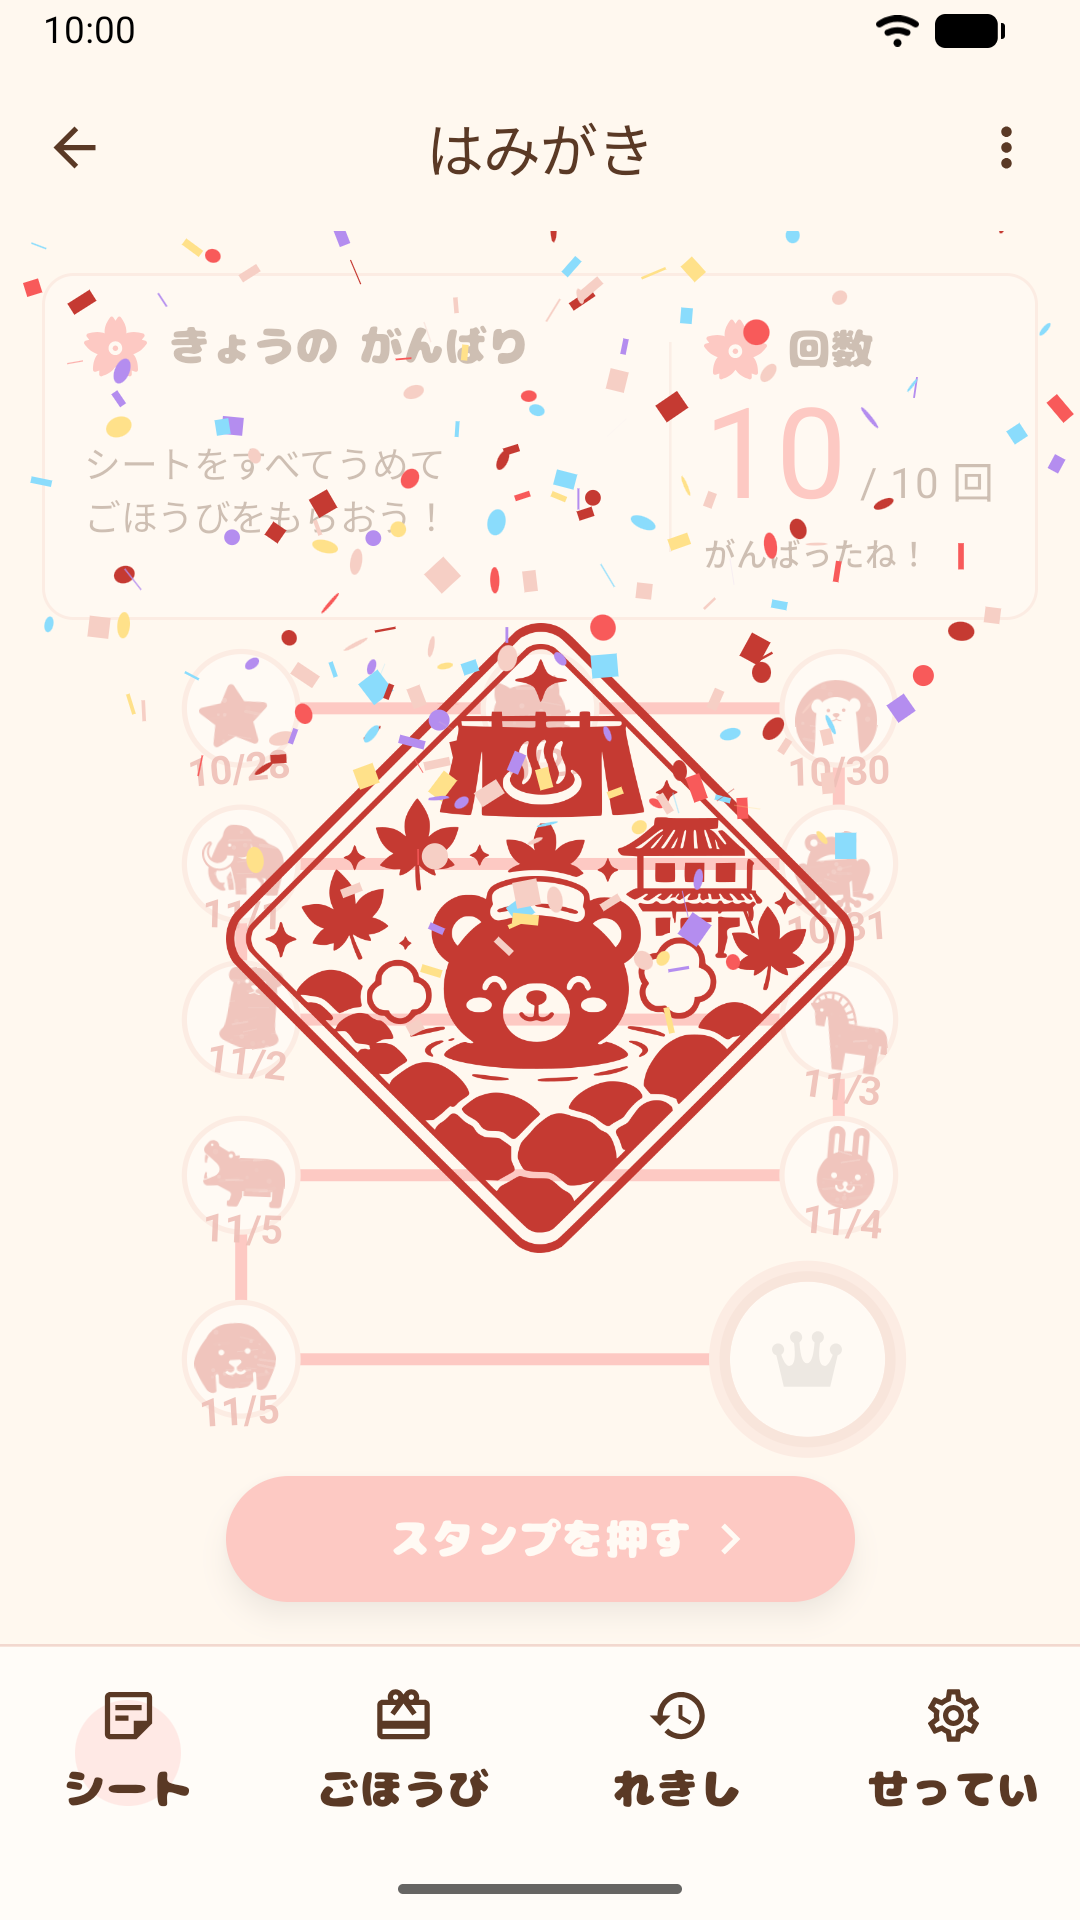
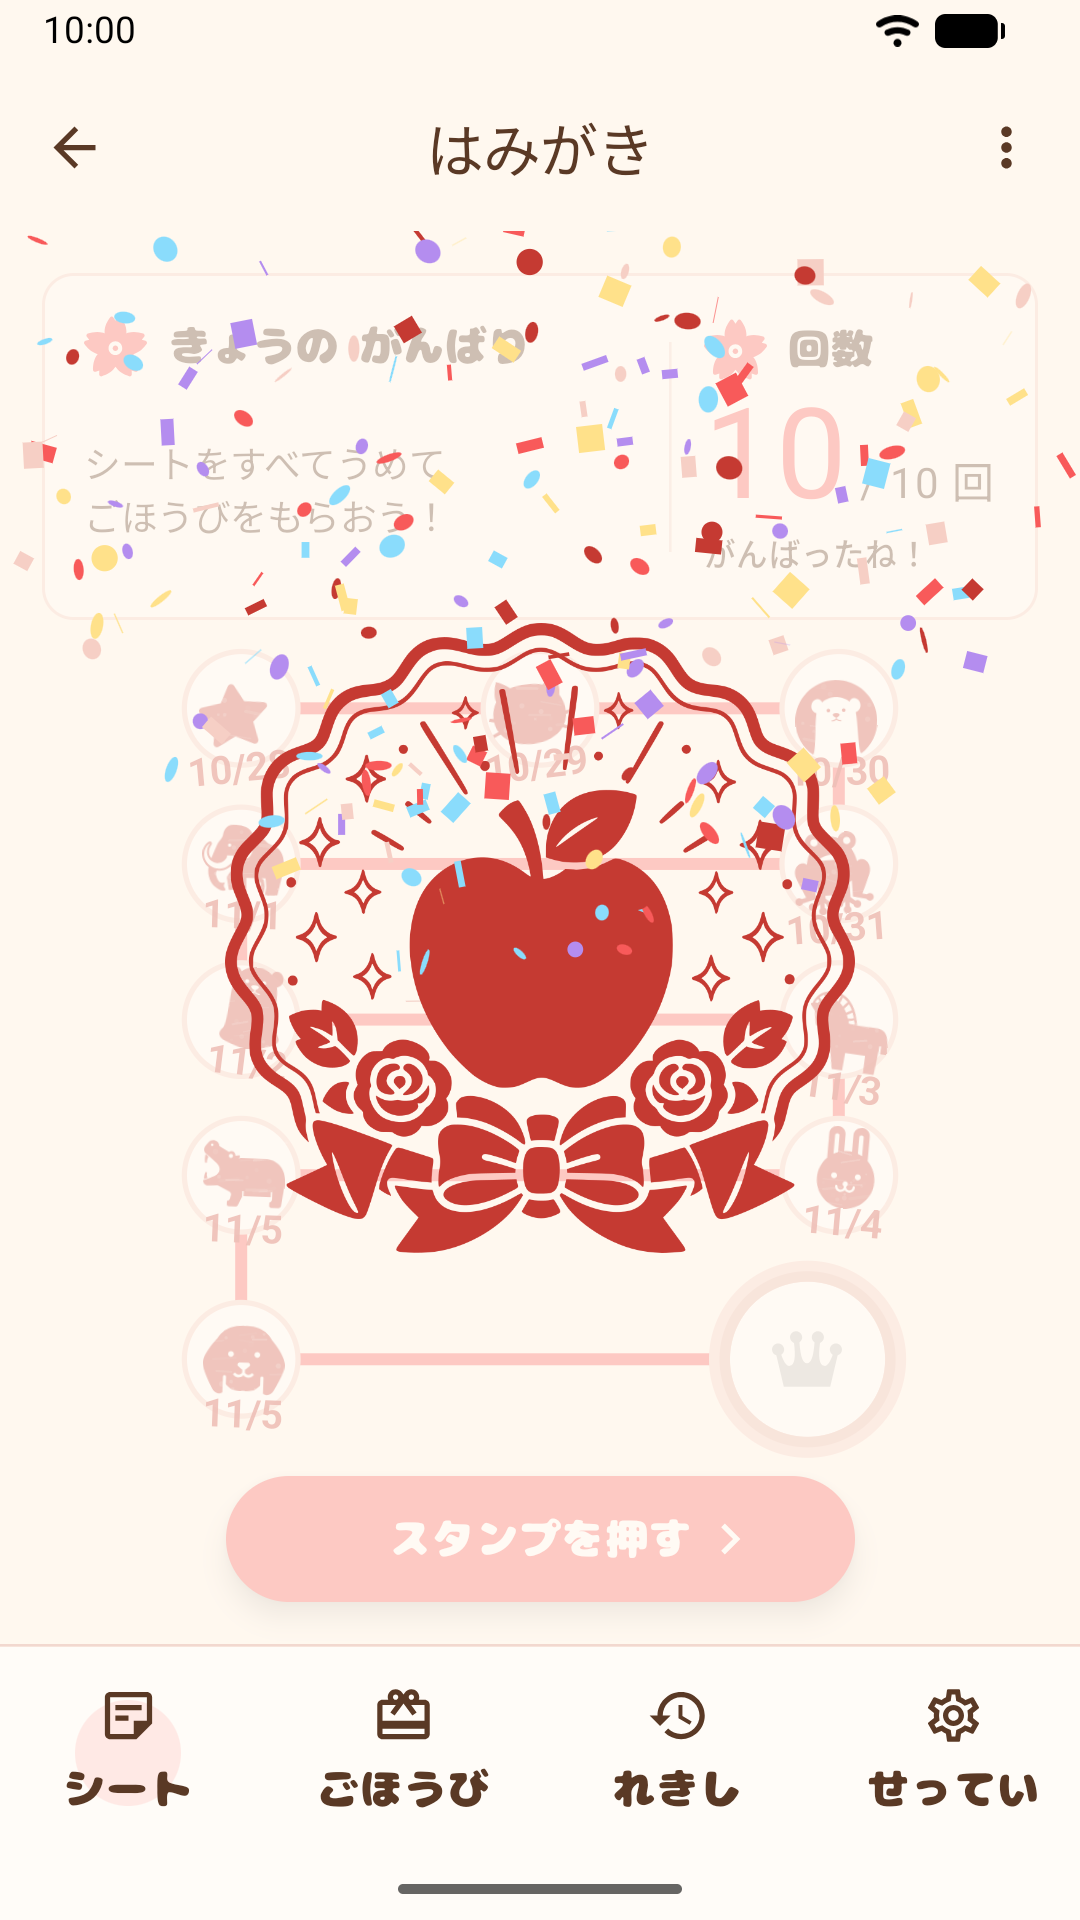
docs: add the settings screen to the screenshot tour and README

diff --git a/README.md b/README.md
@@ -74,12 +74,21 @@
 | ------------------------------------ | ------------------------------------------- |
 | ![](docs/screenshots/11-history.png) | ![](docs/screenshots/12-history-detail.png) |
 
+### せってい
+
+振動やゴールのお祝いアニメーションを切り替えられます。
+
+| せってい                              |
+| ------------------------------------- |
+| ![](docs/screenshots/13-settings.png) |
+
 ## 技術スタック
 
 - Kotlin
 - Jetpack Compose（Material 3）
 - Navigation Compose
 - Room / KSP
+- DataStore
 - MVVM（ViewModel + StateFlow）
 - テスト: JUnit, Robolectric, Paparazzi, Kover
 - 品質: ktlint, Detekt, Android Lint, GitHub Actions
